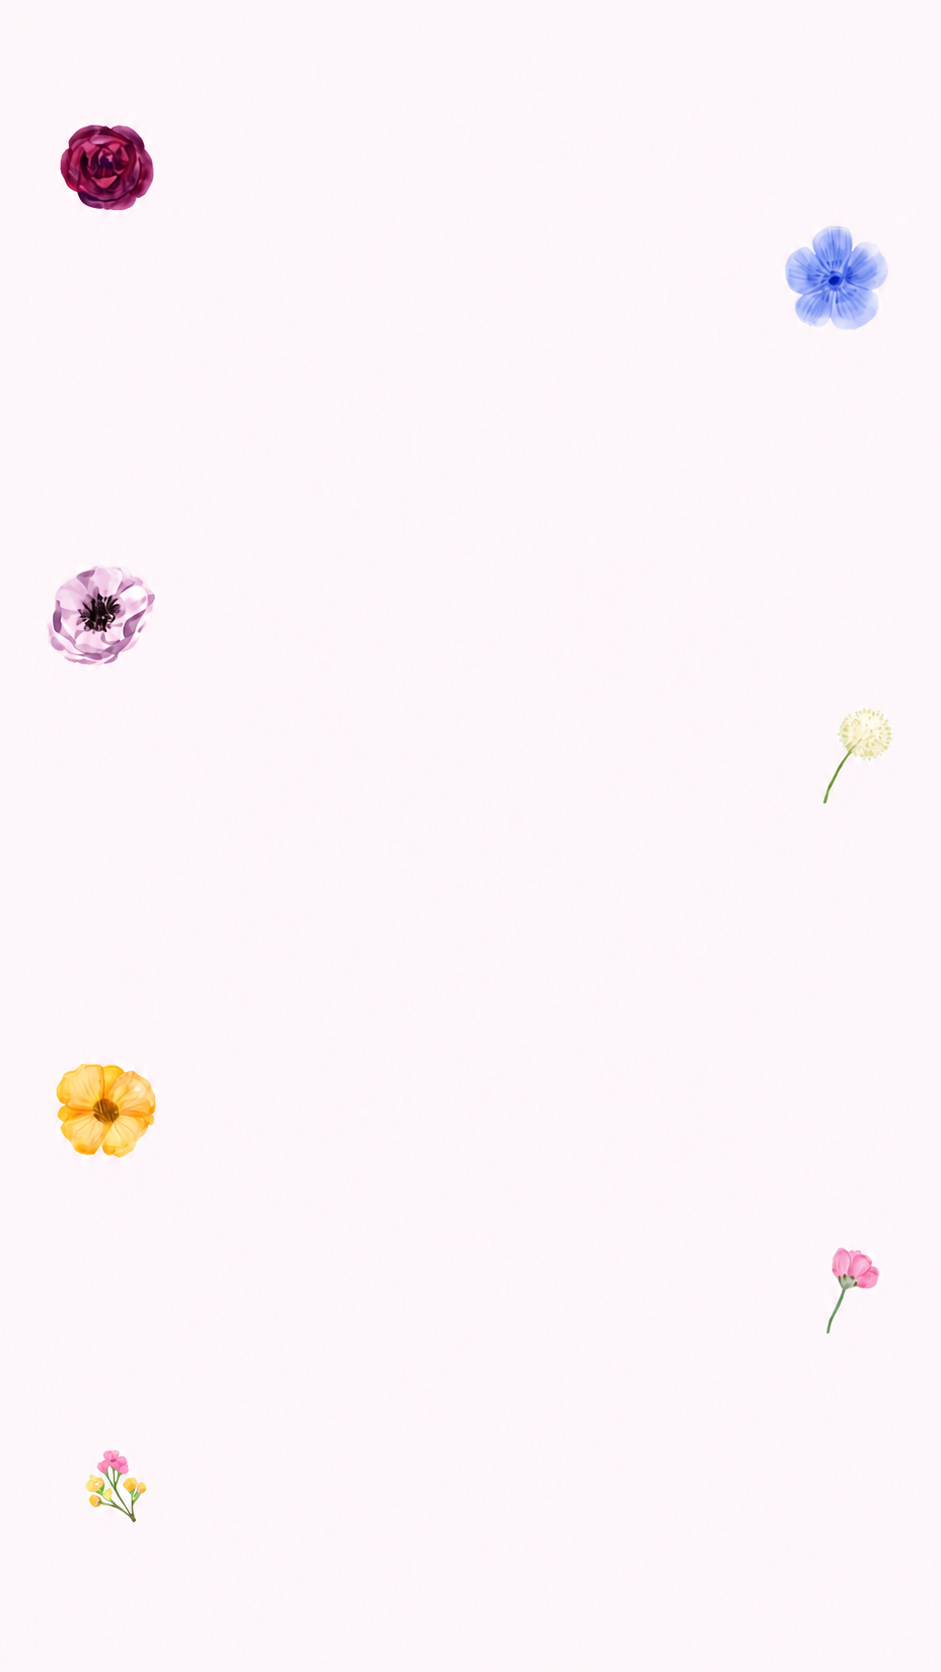
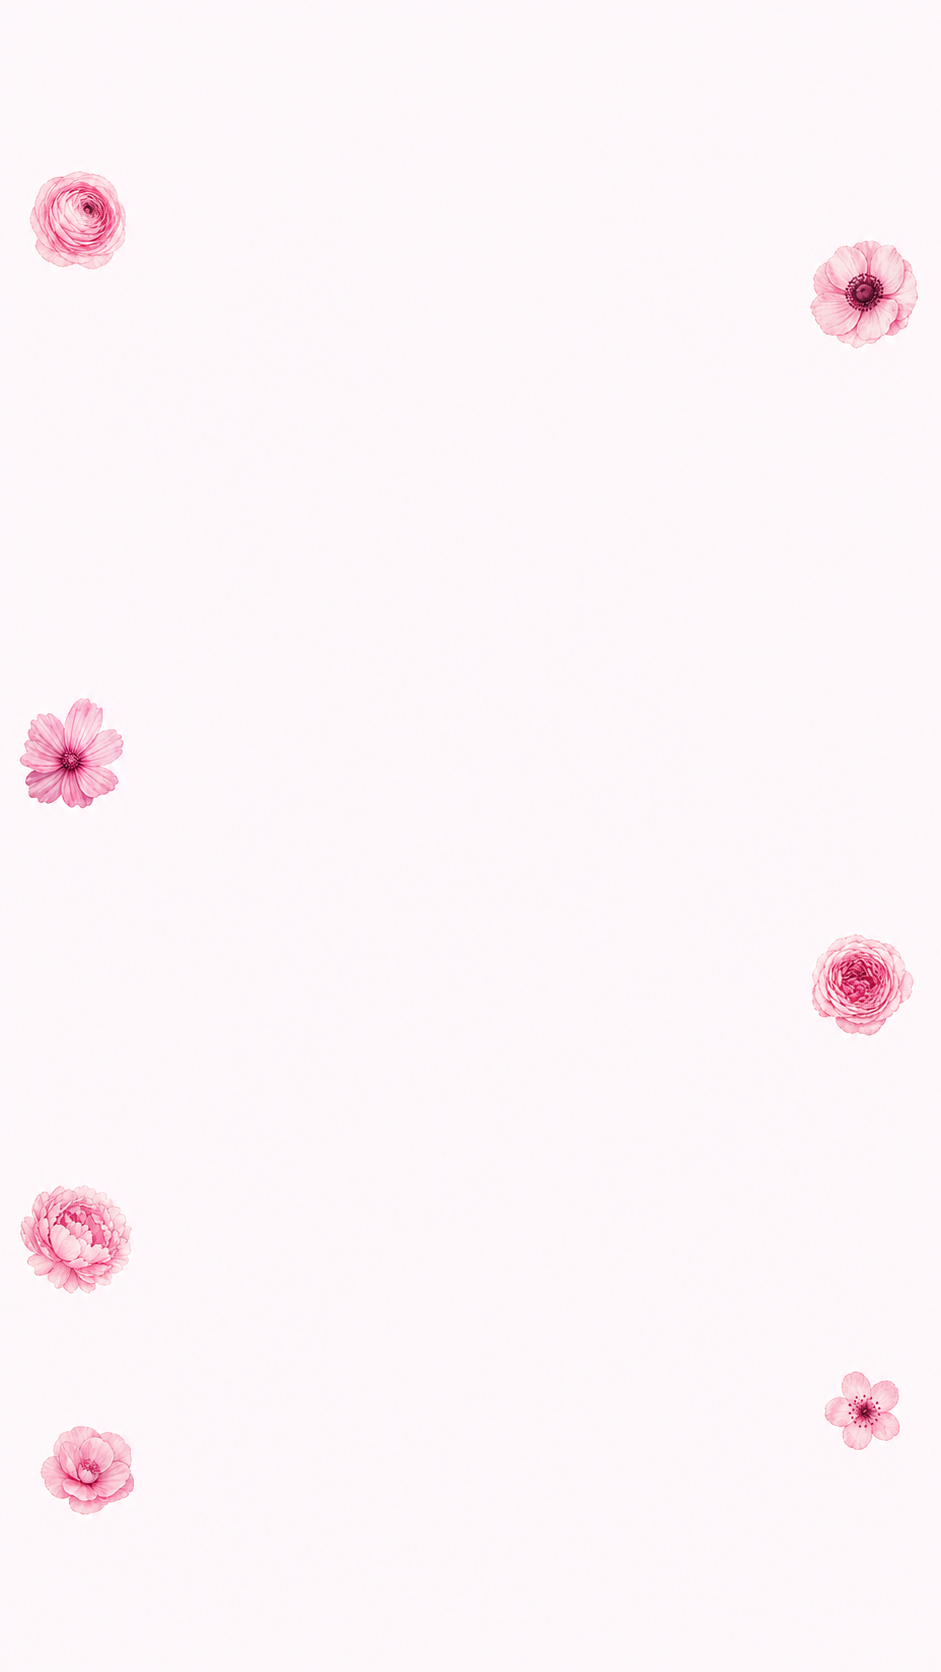
adjust flower background & add delete feature in admin

diff --git a/app/admin-fariz-lia-2026/page.tsx b/app/admin-fariz-lia-2026/page.tsx
@@ -1,6 +1,6 @@
 "use client";
 
-import { useEffect, useState } from "react";
+import { type KeyboardEvent, useEffect, useRef, useState } from "react";
 
 type Recording = {
   url: string;
@@ -15,6 +15,11 @@ export default function AdminPage() {
   const [recordings, setRecordings] = useState<Recording[]>([]);
   const [loading, setLoading] = useState(true);
   const [error, setError] = useState("");
+  const [recordingToDelete, setRecordingToDelete] = useState<Recording | null>(null);
+  const [deletingPathname, setDeletingPathname] = useState<string | null>(null);
+  const [deleteError, setDeleteError] = useState("");
+  const deleteTriggerRef = useRef<HTMLButtonElement | null>(null);
+  const adminHeadingRef = useRef<HTMLHeadingElement | null>(null);
 
   useEffect(() => {
     fetchRecordings();
@@ -35,6 +40,75 @@ export default function AdminPage() {
     }
   }
 
+  function openDeleteConfirmation(recording: Recording, trigger: HTMLButtonElement) {
+    setDeleteError("");
+    deleteTriggerRef.current = trigger;
+    setRecordingToDelete(recording);
+  }
+
+  function closeDeleteConfirmation() {
+    setDeleteError("");
+    setRecordingToDelete(null);
+    requestAnimationFrame(() => deleteTriggerRef.current?.focus());
+  }
+
+  function handleDeleteDialogKeyDown(event: KeyboardEvent<HTMLDivElement>) {
+    if (event.key === "Escape" && deletingPathname === null) {
+      event.preventDefault();
+      closeDeleteConfirmation();
+      return;
+    }
+
+    if (event.key !== "Tab") return;
+
+    const focusableElements = Array.from(
+      event.currentTarget.querySelectorAll<HTMLElement>("button:not([disabled])")
+    );
+    const firstElement = focusableElements[0];
+    const lastElement = focusableElements[focusableElements.length - 1];
+
+    if (!firstElement || !lastElement) {
+      event.preventDefault();
+      return;
+    }
+
+    if (event.shiftKey && document.activeElement === firstElement) {
+      event.preventDefault();
+      lastElement.focus();
+    } else if (!event.shiftKey && document.activeElement === lastElement) {
+      event.preventDefault();
+      firstElement.focus();
+    }
+  }
+
+  async function handleDeleteConfirmed() {
+    if (!recordingToDelete) return;
+
+    const target = recordingToDelete;
+    setDeletingPathname(target.pathname);
+    setDeleteError("");
+
+    try {
+      const res = await fetch("/api/recordings", {
+        method: "DELETE",
+        headers: { "Content-Type": "application/json" },
+        body: JSON.stringify({ pathname: target.pathname }),
+      });
+
+      if (!res.ok) throw new Error("delete failed");
+
+      setRecordings((current) =>
+        current.filter((recording) => recording.pathname !== target.pathname)
+      );
+      setRecordingToDelete(null);
+      requestAnimationFrame(() => adminHeadingRef.current?.focus());
+    } catch {
+      setDeleteError("Rekaman gagal dihapus. Silakan coba lagi.");
+    } finally {
+      setDeletingPathname(null);
+    }
+  }
+
   return (
     <main className="min-h-screen px-5 py-10 sm:px-8 sm:py-16">
       <div className="mx-auto w-full max-w-3xl">
@@ -46,7 +120,11 @@ export default function AdminPage() {
               <p className="mb-2 font-body text-[0.62rem] font-semibold uppercase tracking-[0.28em] text-roseDark/85">
                 Koleksi privat Fariz &amp; Lia
               </p>
-              <h1 className="font-display text-4xl font-semibold leading-none text-roseDark sm:text-5xl">
+              <h1
+                ref={adminHeadingRef}
+                tabIndex={-1}
+                className="font-display text-4xl font-semibold leading-none text-roseDark outline-none sm:text-5xl"
+              >
                 Ucapan <span className="font-normal italic text-rose">Tamu</span>
               </h1>
               <p className="mt-3 font-display text-lg text-ink/65">
@@ -98,19 +176,111 @@ export default function AdminPage() {
                 </p>
               </div>
               <audio controls src={r.url} className="h-10 w-full sm:w-64" />
-              <a
-                href={r.url}
-                download
-                className="focus-ring shrink-0 rounded-xl border border-rose/35 px-4 py-2.5 text-center
-                           font-body text-xs font-semibold text-roseDark transition-colors hover:bg-rose/5"
-              >
-                Unduh
-              </a>
+              <div className="flex shrink-0 gap-2">
+                <a
+                  href={r.url}
+                  download
+                  className="focus-ring flex-1 rounded-xl border border-rose/35 px-4 py-2.5 text-center
+                             font-body text-xs font-semibold text-roseDark transition-colors hover:bg-rose/5"
+                >
+                  Unduh
+                </a>
+                <button
+                  type="button"
+                  onClick={(event) => openDeleteConfirmation(r, event.currentTarget)}
+                  disabled={deletingPathname === r.pathname}
+                  className="focus-ring inline-flex flex-1 items-center justify-center gap-1.5 rounded-xl
+                             border border-red-200 px-4 py-2.5 font-body text-xs font-semibold text-red-600
+                             transition-colors hover:bg-red-50 disabled:cursor-not-allowed disabled:opacity-50"
+                  aria-label={`Hapus rekaman ${r.name}`}
+                >
+                  <TrashIcon />
+                  Hapus
+                </button>
+              </div>
             </article>
           ))}
         </div>
       </div>
+
+      {recordingToDelete && (
+        <div className="fixed inset-0 z-30 flex items-center justify-center bg-ink/35 px-5 backdrop-blur-sm">
+          <div
+            role="dialog"
+            aria-modal="true"
+            aria-labelledby="delete-recording-title"
+            aria-describedby="delete-recording-description"
+            onKeyDown={handleDeleteDialogKeyDown}
+            className="w-full max-w-sm rounded-[1.75rem] border border-rose/20 bg-porcelain p-6 shadow-romantic"
+          >
+            <div className="mb-5 flex h-12 w-12 items-center justify-center rounded-full bg-red-50 text-red-600">
+              <TrashIcon size={21} />
+            </div>
+            <h2
+              id="delete-recording-title"
+              className="mb-2 font-display text-3xl font-semibold text-roseDark"
+            >
+              Hapus rekaman?
+            </h2>
+            <p id="delete-recording-description" className="font-display text-lg leading-7 text-ink/70">
+              Rekaman dari <strong className="font-semibold">{recordingToDelete.name}</strong>{" "}
+              akan dihapus secara permanen dan tidak dapat dipulihkan.
+            </p>
+
+            {deleteError && (
+              <p className="mt-4 rounded-xl border border-red-200 bg-red-50 px-3 py-2 font-body text-xs text-red-700" role="alert">
+                {deleteError}
+              </p>
+            )}
+
+            <div className="mt-6 flex gap-3">
+              <button
+                type="button"
+                onClick={closeDeleteConfirmation}
+                disabled={deletingPathname !== null}
+                autoFocus
+                className="focus-ring flex-1 rounded-xl border border-rose/35 px-4 py-3 font-body
+                           text-sm font-semibold text-roseDark transition-colors hover:bg-rose/5
+                           disabled:cursor-not-allowed disabled:opacity-50"
+              >
+                Batal
+              </button>
+              <button
+                type="button"
+                onClick={handleDeleteConfirmed}
+                disabled={deletingPathname !== null}
+                className="focus-ring flex-1 rounded-xl bg-red-600 px-4 py-3 font-body text-sm
+                           font-semibold text-white transition-colors hover:bg-red-700
+                           disabled:cursor-not-allowed disabled:opacity-60"
+              >
+                {deletingPathname ? "Menghapus…" : "Ya, Hapus"}
+              </button>
+            </div>
+          </div>
+        </div>
+      )}
     </main>
+  );
+}
+
+function TrashIcon({ size = 15 }: { size?: number }) {
+  return (
+    <svg
+      width={size}
+      height={size}
+      viewBox="0 0 24 24"
+      fill="none"
+      stroke="currentColor"
+      strokeWidth="1.9"
+      strokeLinecap="round"
+      strokeLinejoin="round"
+      aria-hidden="true"
+    >
+      <path d="M3 6h18" />
+      <path d="M8 6V4h8v2" />
+      <path d="m19 6-1 14H6L5 6" />
+      <path d="M10 11v5M14 11v5" />
+    </svg>
   );
 }
 

diff --git a/app/api/recordings/route.ts b/app/api/recordings/route.ts
@@ -1,4 +1,4 @@
-import { list } from "@vercel/blob";
+import { del, list } from "@vercel/blob";
 import { NextResponse } from "next/server";
 
 export const runtime = "nodejs";
@@ -34,6 +34,56 @@ export async function GET() {
     console.error("List error:", err);
     return NextResponse.json(
       { error: "Gagal mengambil daftar rekaman" },
+      { status: 500 }
+    );
+  }
+}
+
+export async function DELETE(request: Request) {
+  let body: unknown;
+
+  try {
+    body = await request.json();
+  } catch {
+    return NextResponse.json(
+      { error: "Data permintaan tidak valid" },
+      { status: 400 }
+    );
+  }
+
+  try {
+    const pathname =
+      typeof body === "object" && body !== null && "pathname" in body
+        ? (body as { pathname?: unknown }).pathname
+        : undefined;
+
+    if (
+      typeof pathname !== "string" ||
+      !/^recordings\/\d+-[a-z0-9-]+\.webm$/.test(pathname)
+    ) {
+      return NextResponse.json(
+        { error: "Path rekaman tidak valid" },
+        { status: 400 }
+      );
+    }
+
+    const { blobs } = await list({ prefix: pathname, limit: 2 });
+    const recording = blobs.find((blob) => blob.pathname === pathname);
+
+    if (!recording) {
+      return NextResponse.json(
+        { error: "Rekaman tidak ditemukan" },
+        { status: 404 }
+      );
+    }
+
+    await del(recording.url);
+
+    return NextResponse.json({ deleted: true, pathname });
+  } catch (err) {
+    console.error("Delete error:", err);
+    return NextResponse.json(
+      { error: "Gagal menghapus rekaman" },
       { status: 500 }
     );
   }

diff --git a/app/rekam/page.tsx b/app/rekam/page.tsx
@@ -296,7 +296,7 @@ export default function RekamPage() {
         ) : (
           <>
             <p className="mb-2 font-body text-[0.62rem] font-semibold uppercase tracking-[0.28em] text-roseDark/85">
-              Voice guestbook
+              Audio guestbook
             </p>
             <h2 className="mb-1 font-display text-4xl font-semibold leading-none text-roseDark">
               Ucapan <span className="font-normal italic text-rose">untukmu</span>

diff --git a/tailwind.config.js b/tailwind.config.js
@@ -22,8 +22,8 @@ module.exports = {
         body: ["var(--font-manrope)", "sans-serif"],
       },
       boxShadow: {
-        romantic: "0 18px 42px rgba(142, 79, 104, 0.09)",
-        petal: "0 6px 16px rgba(142, 79, 104, 0.14)",
+        romantic: "0 8px 24px rgba(142, 79, 104, 0.06)",
+        petal: "0 2px 8px rgba(142, 79, 104, 0.08)",
       },
       keyframes: {
         pulseRing: {

diff --git a/app/globals.css b/app/globals.css
@@ -49,7 +49,7 @@ body {
   max-width: 42rem;
   object-fit: cover;
   object-position: center;
-  opacity: 0.82;
+  opacity: 0.6;
   mix-blend-mode: multiply;
 }
 

diff --git a/README.md b/README.md
@@ -7,9 +7,10 @@ tersimpan otomatis ke Vercel Blob Storage. Gratis untuk hosting.
 
 - `/` — Halaman utama: "Welcome to Fariz & Lia" + tombol mulai merekam
 - `/rekam` — Input nama, rekam (maks 60 detik), pause/lanjut/berhenti/ulangi/
-  dengarkan/hapus/simpan, konfirmasi permanen, lalu kembali ke halaman utama
+  dengarkan/hapus/simpan, lalu menampilkan konfirmasi bahwa rekaman tersimpan
 - `/admin-fariz-lia-2026` — Halaman **rahasia** untuk kamu: daftar semua
-  rekaman tamu, bisa didengarkan dan diunduh. Jangan bagikan link ini ke tamu.
+  rekaman tamu, bisa didengarkan, diunduh, dan dihapus permanen. Jangan bagikan
+  link ini ke tamu.
 
 ## Langkah 1 — Siapkan akun
 
@@ -66,14 +67,14 @@ Ini langkah penting supaya rekaman tamu benar-benar tersimpan.
 1. Buka link `https://ucapan-fariz-lia.vercel.app` di HP kamu.
 2. Klik "Mulai Merekam Ucapan", isi nama, izinkan akses mikrofon, coba rekam.
 3. Setelah simpan, buka `https://ucapan-fariz-lia.vercel.app/admin-fariz-lia-2026`
-   dan pastikan rekaman kamu muncul serta bisa diputar/diunduh.
+   dan pastikan rekaman kamu muncul serta bisa diputar atau diunduh.
 
 ## Langkah 6 — Bagikan ke tamu
 
 - Bagikan link utama (`https://ucapan-fariz-lia.vercel.app`) lewat undangan
   digital, WhatsApp, atau kode QR yang ditempel di venue.
 - **Simpan link admin untuk diri sendiri saja** — siapa pun yang tahu link
-  itu bisa mendengarkan & mengunduh semua rekaman tamu.
+  itu bisa mendengarkan, mengunduh, dan menghapus permanen rekaman tamu.
 
 ## Mengganti nama pengantin / teks
 
@@ -83,17 +84,18 @@ Ini langkah penting supaya rekaman tamu benar-benar tersimpan.
 - Warna & font: edit `tailwind.config.js` (warna) dan `app/layout.tsx`
   (font Google — saat ini "Cormorant Garamond" untuk judul dan "Manrope"
   untuk teks).
-- Link admin rahasia: ganti nama folder
-  `app/admin-fariz-lia-2026` menjadi apapun yang kamu suka, semakin unik
-  semakin aman (contoh: `app/rahasia-xyz123`).
+- Link admin dapat diganti dengan mengubah nama folder
+  `app/admin-fariz-lia-2026` (contoh: `app/rahasia-xyz123`). Nama route yang
+  sulit ditebak hanya menyamarkan URL dan bukan autentikasi. Tambahkan
+  autentikasi sebelum website dipublikasikan jika akses admin harus benar-benar
+  dibatasi.
 
 ## Batasan yang perlu diketahui
 
 - Free tier Vercel Blob Storage: sekitar 1GB penyimpanan gratis — cukup
   untuk ribuan rekaman 60 detik.
-- Rekaman yang sudah disimpan tamu tidak bisa dihapus lewat website (sesuai
-  desain), tapi kamu tetap bisa menghapusnya manual lewat dashboard Vercel
-  Storage kalau memang perlu.
+- Rekaman dapat dihapus permanen melalui halaman admin. Penghapusan ini tidak
+  dapat dibatalkan atau dipulihkan dari website.
 - Perlu koneksi internet aktif saat tamu merekam & menyimpan (bukan mode
   offline).
 - Akses mikrofon browser memerlukan HTTPS — otomatis tersedia dari Vercel,
